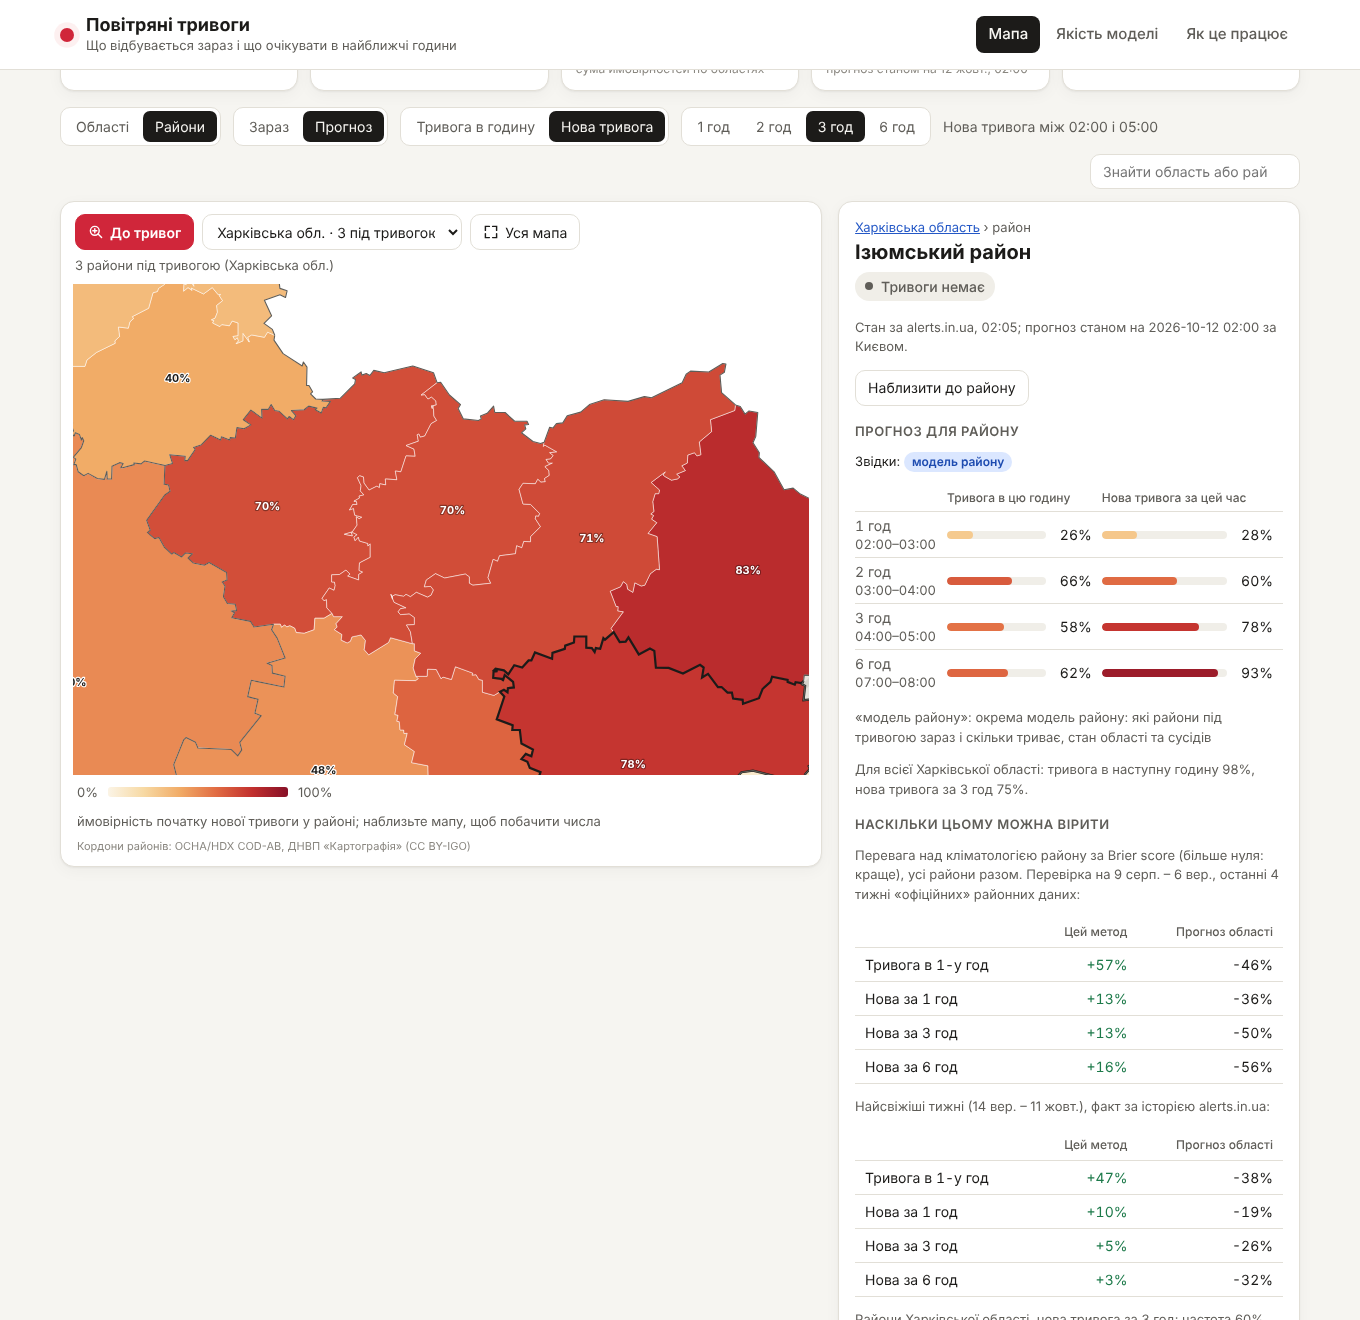
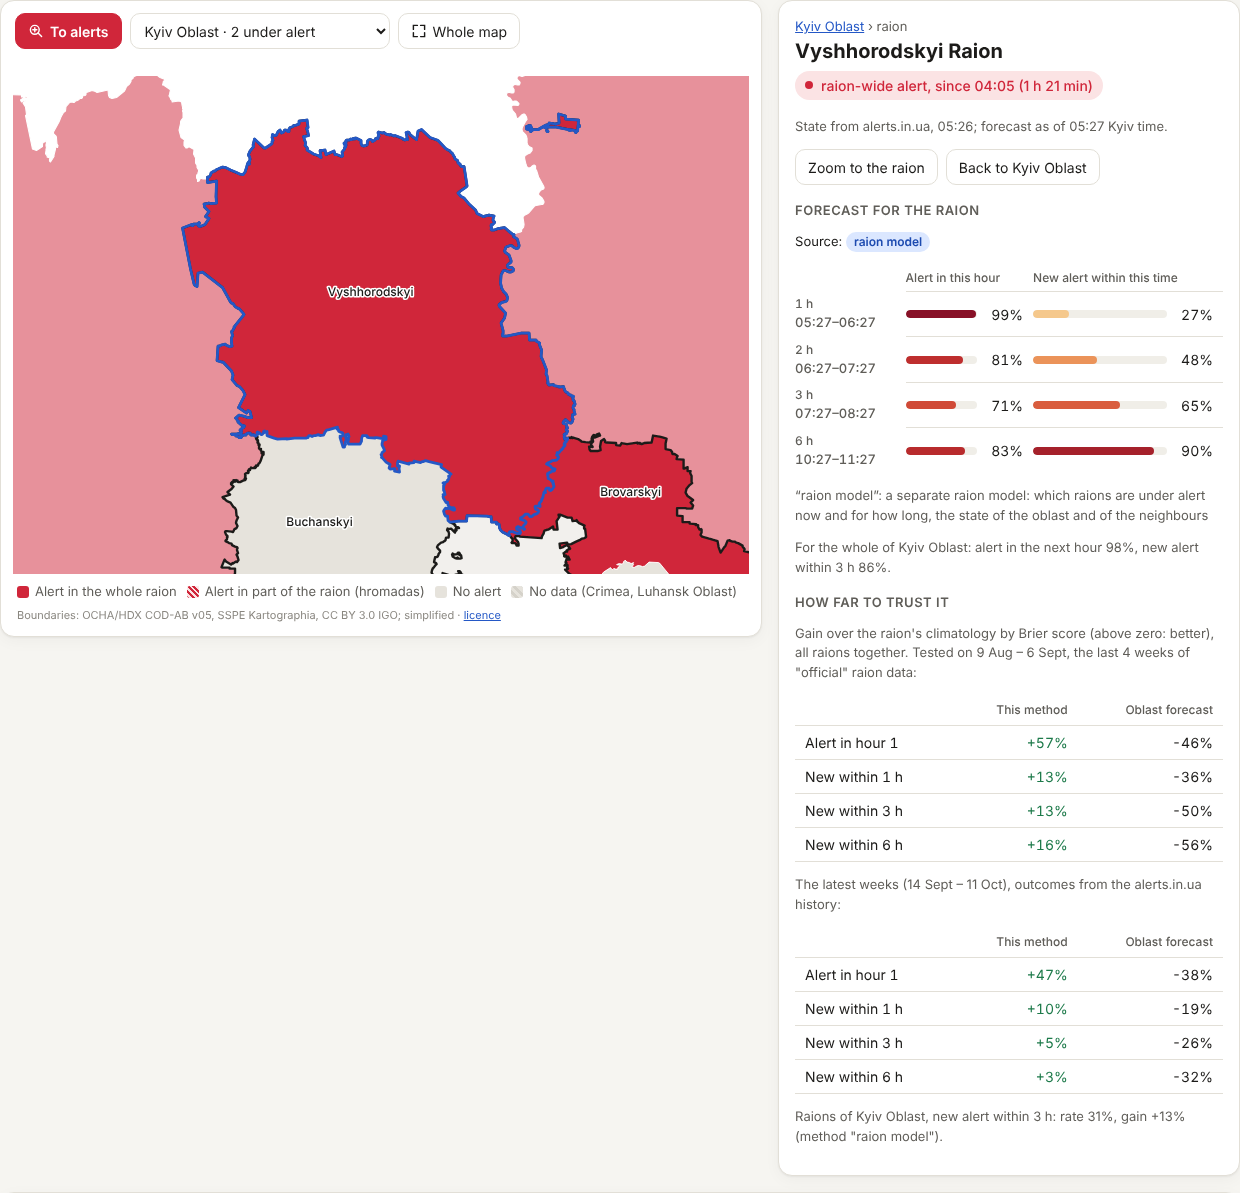
Docs: raion breakdown, COD-AB geometry, statistics, language switch; new screenshots
README and docs/web-app.md describe the oblast view with its raions, the
geometry (source, licence, dissolve, two levels of detail and their sizes),
the full-width statistics and the EN / UK switch. Screenshots were retaken in
English (one in Ukrainian) with Playwright + Chromium on a static build with
the real data of the GitHub Pages artifact of 12 Oct 2026, 05:27 Kyiv time;
docs/img/before/ holds the same views of the previous UI for the review.

Claude-Session: https://claude.ai/code/session_01QCRxwfAQtXkvgUx251ctkg

diff --git a/README.md b/README.md
@@ -16,6 +16,10 @@ hour T:
 A **raion (district) layer** adds which raions are under alert now and a 1–6 h forecast for
 each of the 119 raions with data, evaluated on its own: see [Raion level](#raion-level-districts).
 
+The web UI ([GitHub Pages](https://ivansnezhok.github.io/air-raid-forecast-ua/), or the
+FastAPI app: [`docs/web-app.md`](docs/web-app.md)) is in **English by default** with a
+Ukrainian switch (EN / UK in the header, remembered per viewer, or `?lang=uk`).
+
 ## Quick start
 
 ```bash
@@ -426,25 +430,33 @@ became known). Files are never rewritten, so git grows only by new rows.
 
 ## Raion level (districts)
 
-The web map can switch from oblasts to **raions** (the 136 districts after the 2020
-reform, plus Kyiv City and Sevastopol): which raions are under alert right now (the
-whole raion, or only some of its hromadas), a 1–6 h forecast for every raion, and a
-**"До тривог"** button that zooms the map to the raions under alert, in all oblasts or in
-one. Clicking a raion opens its live state and forecast, with the method behind every
-number. Screenshots and API: [`docs/web-app.md`](docs/web-app.md#райони).
+Picking an oblast on the web map zooms to it and breaks it down into its **raions** (the
+136 districts after the 2020 reform, plus Kyiv City and Sevastopol): which raions are under
+alert right now (the whole raion, or only some of its hromadas: striped), since when, and
+a 1/3/6 h forecast for every raion with the method behind the number; clicking a raion
+opens its own panel. The "Raions" view colours the whole country by raion, and **"To
+alerts"** zooms the map to the raions under alert, in all oblasts or in one. The page is
+in English by default, with a Ukrainian switch (EN / UK, remembered per viewer,
+`?lang=uk|en`). Screenshots and API: [`docs/web-app.md`](docs/web-app.md#райони).
 
-![raions under alert](docs/img/app-raions-now.png)
+![Kyiv Oblast broken down into raions](docs/img/app-oblast-raions.png)
 ![raion panel: forecast, method and its test quality](docs/img/app-raion-detail.png)
 
 ### Geometry and names
 
-* `scripts/build_map.py --only raions` → `src/airraid_app/static/raions-map.json`
-  (370 KB, 127 KB gzipped) from the OCHA/HDX **COD-AB** boundaries of Ukraine, v05, valid
-  on 2025-09-01 (State Scientific Production Enterprise "Kartographia", **CC BY-IGO**,
-  [`raions-map.LICENSE.txt`](src/airraid_app/static/raions-map.LICENSE.txt)). Neighbours
-  share their border vertices, so borders are cut into arcs and every arc is simplified
-  once (as TopoJSON does): no gaps or slivers between raions. The Chornobyl exclusion zone
-  is drawn as part of Vyshhorodskyi raion, which it belongs to since 2020.
+* `scripts/build_map.py` → `src/airraid_app/static/ukraine-map.json` (country view, loaded
+  with the page: 150 KB, 51 KB gzipped) and `ukraine-map-detail.json` (loaded the first time
+  the map zooms in: 290 KB, 83 KB gzipped), both from the OCHA/HDX **COD-AB** boundaries of
+  Ukraine, v05, valid on 2025-09-01 (State Scientific Production Enterprise "Kartographia",
+  **CC BY 3.0 IGO**, [`ukraine-map.LICENSE.txt`](src/airraid_app/static/ukraine-map.LICENSE.txt)).
+  Neighbours share their border vertices, so borders are cut into arcs and every arc is
+  simplified once (as TopoJSON does, 0.3 km / 45 m tolerance for the two levels): no gaps or
+  slivers between raions. The **oblasts are the raions dissolved** (the same arcs), so oblast
+  and raion borders coincide exactly; Kyiv City is a real outline cut out of Kyiv Oblast.
+  The files store the arcs once (delta-encoded integers) and the rings as arc indices; the
+  UI builds the SVG paths. The Chornobyl exclusion zone is drawn as part of Vyshhorodskyi
+  raion, which it belongs to since 2020. `tests/app/test_map_geometry.py` checks
+  completeness, closed rings, no overlaps and that every oblast equals its dissolved raions.
 * `src/airraid/raions.py`: one row per unit with the HDX pcode, the oblast, the English
   name of the official alert file and the Ukrainian title and location UID of
   alerts.in.ua. **Mapping completeness** (`tests/app/test_raion_map.py`): all 118 raions of the
@@ -606,7 +618,8 @@ stopping on the same month); the test numbers above are not.
 ### Commands
 
 ```bash
-python scripts/build_map.py --only raions   # raion geometry + neighbour list (outputs committed)
+python scripts/build_map.py                 # oblast + raion geometry, two levels of detail (outputs committed;
+                                            # --write-neighbours also rewrites the raion neighbour list)
 python raion_run.py --threads 2             # official-file walk-forward → reports/raions/ (~1–2 h on 4 cores)
 git worktree add live-data origin/live-data
 python raion_latest.py --store live-data    # latest 4 weeks with alerts.in.ua labels → reports/raions/latest_*
